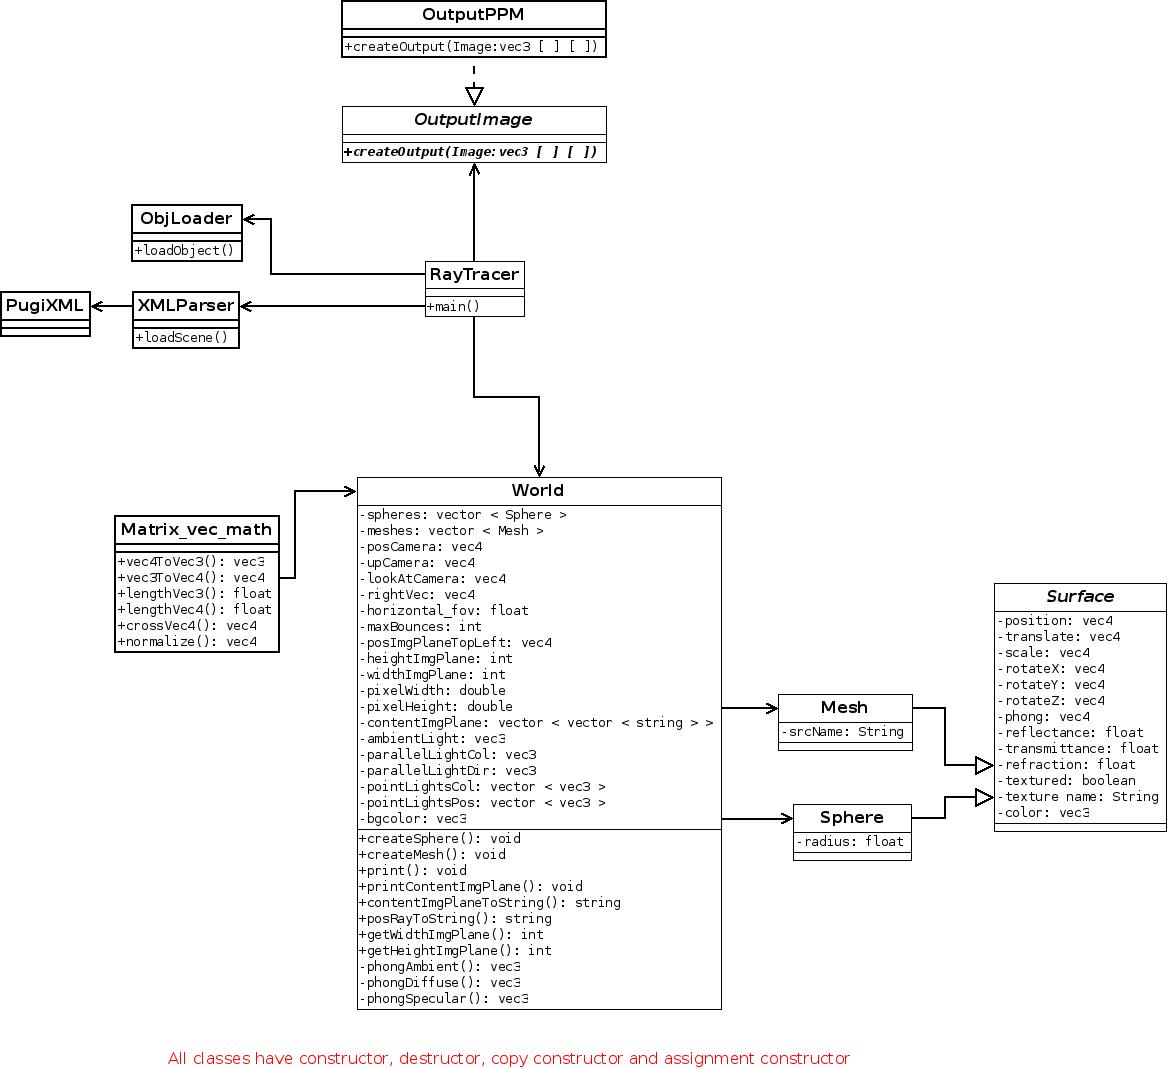
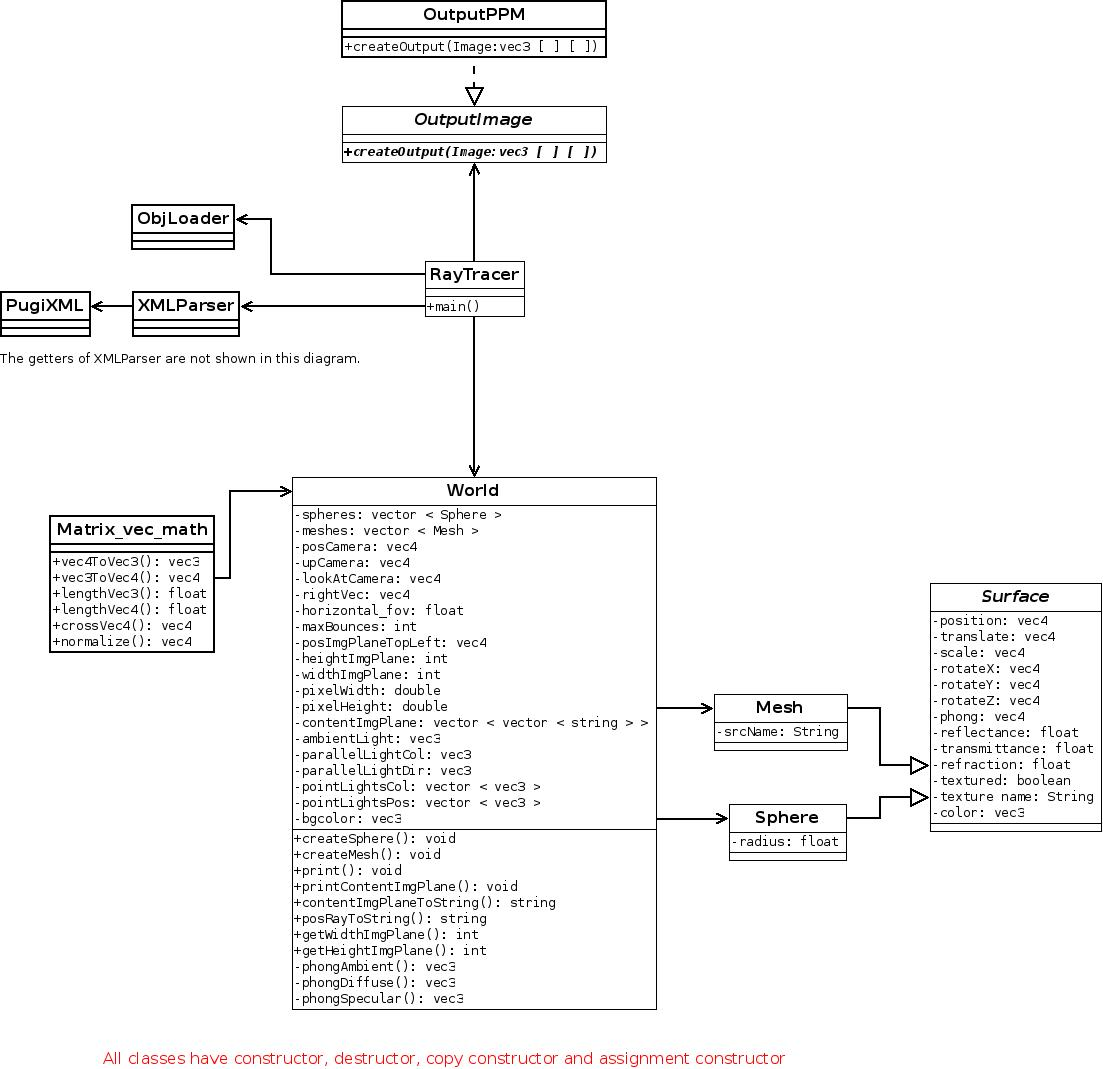
class ObjLoader added; simple implementation with error handling if file does´nt exist

diff --git a/ray_tracer/ObjLoader.cpp b/ray_tracer/ObjLoader.cpp
@@ -1,0 +1,54 @@
+/*
+ * ObjLoader.cpp
+ *
+ *  Created on: 20.01.2016
+ *      Author: Fabian Türk
+ */
+
+#include <iostream>
+#include <fstream>
+#include <string>
+#include <sstream>
+#include <vector>
+#include <cerrno>
+#include <cstring>
+#include "../libs/glm/glm/vec3.hpp"
+#include "../libs/glm/glm/gtx/string_cast.hpp"
+#include "ObjLoader.h"
+using namespace std;
+
+ObjLoader::ObjLoader( std::string srcPath ) {
+	string line;
+	string v;
+	vector< glm::vec3 > vertices;
+
+	ifstream myfile ( srcPath );
+	if( myfile ){
+		cout << "Opening .obj file \'" << srcPath << "\' was successfull." << endl;
+		while( !myfile.eof() ) {
+			getline ( myfile, line );
+			if ( line[ 0 ] == 'v' && line[ 1 ] != 't' && line[ 1 ] != 'n' )
+			{
+				vector< string > verticesStr ( 3 );
+				glm::vec3 verticeTemp;
+				std::istringstream iss( line );
+				iss >> v;
+				iss >> verticesStr.at( 0 ) >> verticesStr.at( 1 ) >> verticesStr.at( 2 );
+				for( unsigned int i = 0; i < verticesStr.size(); ++i ){
+					verticeTemp[ i ] = atof( verticesStr[ i ].c_str() );
+				}
+				cout << glm::to_string( verticeTemp ) << endl;
+			}
+		}
+	}else{
+		cerr << "Loading .obj file \'" << srcPath << "\' failed!" << endl;
+		cerr << "Error code: " << strerror(errno) << endl;
+	}
+}
+ObjLoader::ObjLoader( const ObjLoader& objLoader ) { }
+ObjLoader& ObjLoader::operator=( const ObjLoader& objLoader ) {
+	return *this;
+}
+ObjLoader::~ObjLoader() { }
+
+

diff --git a/ray_tracer/RayTracer.cpp b/ray_tracer/RayTracer.cpp
@@ -21,6 +21,7 @@
 #include "Mesh.h"
 #include "World.h"
 #include "XMLParser.h"
+#include "ObjLoader.h"
 
 using namespace std;
 
@@ -62,6 +63,10 @@ void RayTracer::main() {
 	std::vector < glm::vec3 > pointLightsPos = xmlParser.get_pointLightsPos();
 
 
+	//READING IN THE OBJECT FILE
+	ObjLoader objLoader( "../scenes/open_room.obj" );
+
+
 	//CREATING THE WORLD
 	//posCamera[ 2 ] += 9.5;
 	//lookAtCamera[ 2 ] += 9.5;
@@ -97,7 +102,7 @@ void RayTracer::main() {
 		const Mesh tempMesh( position, color, phong, reflectance, transmittance, refraction, srcName );
 		world.createMesh( tempMesh );
 	}
-	world.print();
+	//world.print();
 
 
 	//PERFORM RAY TRACING

diff --git a/ray_tracer/ObjLoader.h b/ray_tracer/ObjLoader.h
@@ -1,0 +1,24 @@
+/*
+ * Mesh.h
+ *
+ *  Created on: 17.12.2015
+ *      Author: Fabian Türk
+ */
+
+#ifndef OBJLOADER_H_
+#define OBJLOADER_H_
+
+#include <string>
+#include "../libs/glm/glm/vec3.hpp"
+
+class ObjLoader{
+	ObjLoader( const ObjLoader& objLoader );
+	ObjLoader& operator=( const ObjLoader& objLoader );
+public:
+	ObjLoader( std::string srcPath );
+	virtual ~ObjLoader();
+};
+
+
+
+#endif /* OBJLOADER_H_ */

diff --git a/ray_tracer/Mesh.h b/ray_tracer/Mesh.h
@@ -15,8 +15,8 @@ class Mesh: public Surface{
 	std::string srcName;
 
 public:
-	Mesh( const Mesh& Mesh );
-	Mesh& operator=( const Mesh& Mesh );
+	Mesh( const Mesh& mesh );
+	Mesh& operator=( const Mesh& mesh );
 	Mesh( glm::vec4 position, glm::vec3 color, glm::vec4 phong, float reflectance, float transmittance, float refraction, std::string srcName );
 	virtual ~Mesh();
 

diff --git a/ray_tracer/World.h b/ray_tracer/World.h
@@ -13,7 +13,6 @@
 #include "../libs/glm/glm/fwd.hpp"
 #include "../libs/glm/glm/vec3.hpp"
 #include "../libs/glm/glm/vec4.hpp"
-#include "Ray.h"
 #include "Sphere.h"
 #include "Mesh.h"
 
